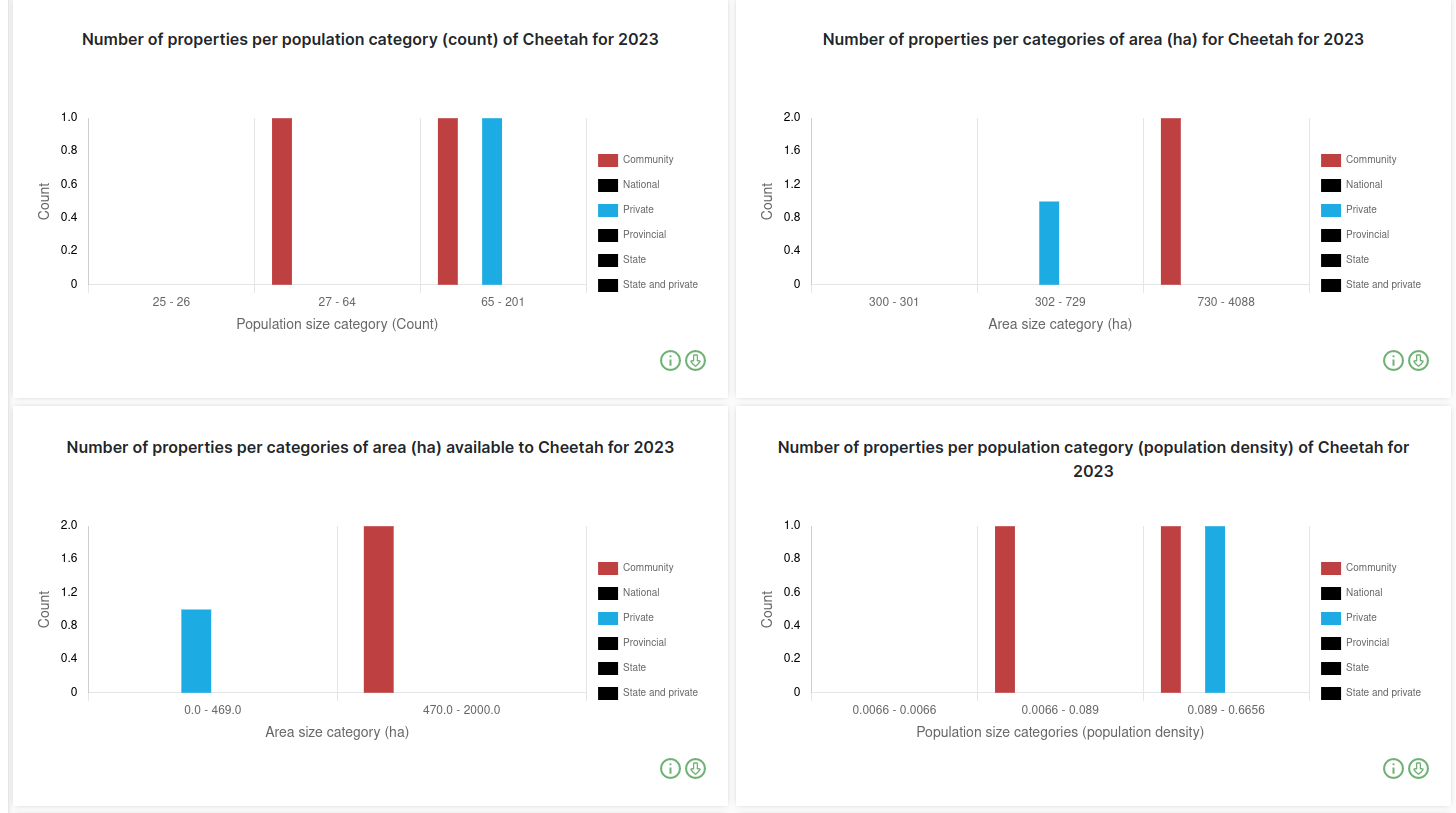
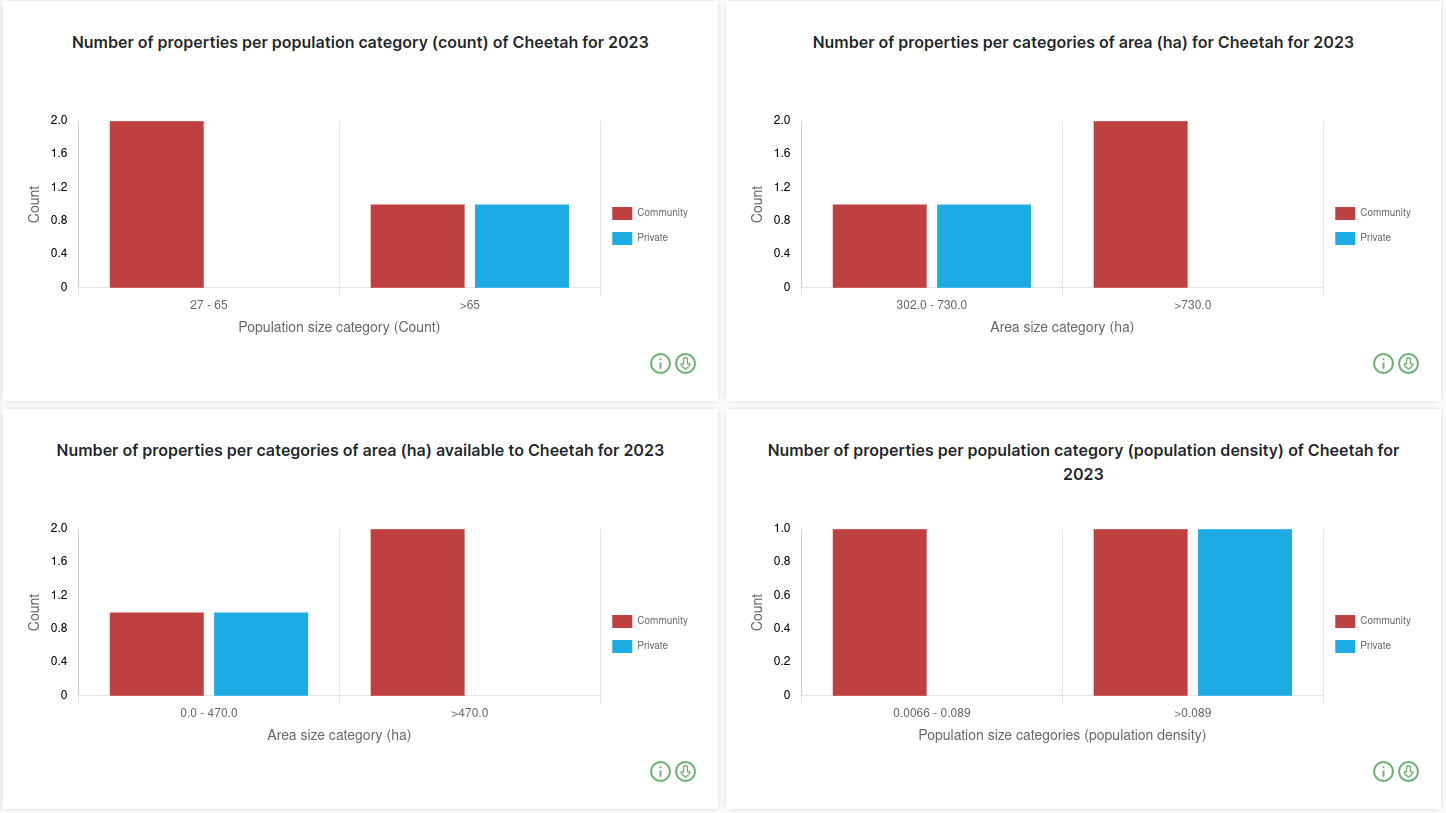
Fix upper bound count

diff --git a/django_project/frontend/src/containers/MainPage/Metrics/PropertyCountPerCategory.tsx b/django_project/frontend/src/containers/MainPage/Metrics/PropertyCountPerCategory.tsx
@@ -89,6 +89,8 @@ const PropertyCountPerCategoryChart = (props: any) => {
     // Map the data for the current age group
     const data = propertyData.map((dataItem: any) => dataItem[propertyType.dataProperty] || 0);
 
+    if (data.every(d => d === 0)) continue;
+
     // Rearrange the data to match the sorted labels
     const sortedData = labels.map((year: any) => {
       const index = propertyData.findIndex((item: { category: any }) => item.category === year);

diff --git a/django_project/frontend/tests/test_metrics.py b/django_project/frontend/tests/test_metrics.py
@@ -9,7 +9,7 @@ from species.factories import (
     TaxonFactory,
     TaxonRankFactory,
 )
-from population_data.models import PopulationEstimateCategory
+from population_data.models import AnnualPopulation, PopulationEstimateCategory
 from population_data.factories import AnnualPopulationF
 from species.models import TaxonRank
 from stakeholder.factories import organisationFactory, organisationUserFactory
@@ -524,7 +524,29 @@ class TotalAreaVSAreaAvailableTestCase(BaseTestCase):
         )
 
 
-class TestPropertyCountPerPopulationSizeCategory(BaseTestCase):
+class TestPropertyCountPerCategoryMixins:
+    def test_empty_result(self) -> None:
+        """
+        Test empty result when there is no data.
+        """
+        year = self.annual_populations[1].year
+        data = {
+            'year': year,
+            'species': 'Species A',
+            'property': self.annual_populations[1].property_id
+        }
+        url = self.url
+        response = self.client.get(url, data, **self.auth_headers)
+        self.assertEquals(
+            response.json(),
+            []
+        )
+
+
+class TestPropertyCountPerPopulationSizeCategory(
+    TestPropertyCountPerCategoryMixins,
+    BaseTestCase
+):
     """
     Test case for the endpoint that retrieves
     property count per population size category.
@@ -536,20 +558,74 @@ class TestPropertyCountPerPopulationSizeCategory(BaseTestCase):
         """
         super().setUp()
         self.url = reverse("property-count-per-population-category-size")
+        self.new_property = PropertyFactory.create()
+        AnnualPopulation.objects.create(
+            total=30,
+            property=self.new_property,
+            year=self.annual_populations[1].year,
+            taxon=self.annual_populations[1].taxon,
+            adult_male=10,
+            adult_female=20
+        )
 
     def test_filter(self) -> None:
         """
         Test filtered total property count per population category.
         """
         year = self.annual_populations[1].year
-        data = {'year': year, 'species': self.annual_populations[1].taxon.scientific_name}
+        data = {
+            'year': year,
+            'species': self.annual_populations[1].taxon.scientific_name
+        }
         url = self.url
         response = self.client.get(url, data, **self.auth_headers)
         self.assertEqual(
             response.json(),
             [
                 {
-                    'category': '98 - 100',
+                    'category': '28 - 30',
+                    self.new_property.property_type.name.lower().replace(' ', '_'): 1,
+                    'common_name_varbatim': self.taxon.common_name_varbatim
+                },
+                {
+                    'category': '>30',
+                    self.property.property_type.name.lower().replace(' ', '_'): 1,
+                    'common_name_varbatim': self.taxon.common_name_varbatim
+                }
+            ]
+        )
+
+    def test_lower_bound_negative(self) -> None:
+        """
+        Test negative lower bound.
+        """
+        new_property = PropertyFactory.create()
+        AnnualPopulation.objects.create(
+            total=1,
+            property=new_property,
+            year=self.annual_populations[1].year,
+            taxon=self.annual_populations[1].taxon,
+            adult_male=1,
+            adult_female=0
+        )
+        year = self.annual_populations[1].year
+        data = {
+            'year': year,
+            'species': self.annual_populations[1].taxon.scientific_name
+        }
+        url = self.url
+        response = self.client.get(url, data, **self.auth_headers)
+        self.assertEqual(
+            response.json(),
+            [
+                {
+                    'category': '1 - 30',
+                    'common_name_varbatim': self.taxon.common_name_varbatim,
+                    new_property.property_type.name.lower().replace(' ', '_'): 1,
+                    self.new_property.property_type.name.lower().replace(' ', '_'): 1
+                },
+                {
+                    'category': '>30',
                     self.property.property_type.name.lower().replace(' ', '_'): 1,
                     'common_name_varbatim': self.taxon.common_name_varbatim
                 }
@@ -557,7 +633,10 @@ class TestPropertyCountPerPopulationSizeCategory(BaseTestCase):
         )
 
 
-class TestPropertyCountPerPopulationDensityCategory(BaseTestCase):
+class TestPropertyCountPerPopulationDensityCategory(
+    TestPropertyCountPerCategoryMixins,
+    BaseTestCase
+):
     """
     Test case for the endpoint that retrieves
     property count per population density category.
@@ -575,7 +654,11 @@ class TestPropertyCountPerPopulationDensityCategory(BaseTestCase):
         Test filtered total property count per population density category.
         """
         year = self.annual_populations[1].year
-        data = {'year': year, 'species': self.annual_populations[1].taxon.scientific_name}
+        data = {
+            'year': year,
+            'species': self.annual_populations[1].taxon.scientific_name,
+            'property': self.annual_populations[1].property_id
+        }
         url = self.url
         response = self.client.get(url, data, **self.auth_headers)
         self.assertEqual(
@@ -590,7 +673,10 @@ class TestPropertyCountPerPopulationDensityCategory(BaseTestCase):
         )
 
 
-class TestPropertyCountPerAreaCategory(BaseTestCase):
+class TestPropertyCountPerAreaCategory(
+    TestPropertyCountPerCategoryMixins,
+    BaseTestCase
+):
     """
     Test case for the endpoint that retrieves
     property count per area category.
@@ -608,14 +694,18 @@ class TestPropertyCountPerAreaCategory(BaseTestCase):
         Test filtered total property count per area category.
         """
         year = self.annual_populations[1].year
-        data = {'year': year, 'species': self.annual_populations[1].taxon.scientific_name}
+        data = {
+            'year': year,
+            'species': self.annual_populations[1].taxon.scientific_name,
+            'property': self.annual_populations[1].property_id
+        }
         url = self.url
         response = self.client.get(url, data, **self.auth_headers)
         self.assertEqual(
             response.json(),
             [
                 {
-                    'category': '198 - 200',
+                    'category': '198.0 - 200.0',
                     self.property.property_type.name.lower().replace(' ', '_'): 1,
                     'common_name_varbatim': self.taxon.common_name_varbatim
                 }
@@ -623,7 +713,10 @@ class TestPropertyCountPerAreaCategory(BaseTestCase):
         )
 
 
-class TestPropertyCountPerAreaAvailableToSpeciesCategory(BaseTestCase):
+class TestPropertyCountPerAreaAvailableToSpeciesCategory(
+    TestPropertyCountPerCategoryMixins,
+    BaseTestCase
+):
     """
     Test case for the endpoint that retrieves
     property count per area available to species category.
@@ -641,7 +734,11 @@ class TestPropertyCountPerAreaAvailableToSpeciesCategory(BaseTestCase):
         Test filtered total property count per area  available to species category.
         """
         year = self.annual_populations[1].year
-        data = {'year': year, 'species': self.annual_populations[1].taxon.scientific_name}
+        data = {
+            'year': year,
+            'species': self.annual_populations[1].taxon.scientific_name,
+            'property': self.annual_populations[1].property_id
+        }
         url = self.url
         response = self.client.get(url, data, **self.auth_headers)
         self.assertEqual(

diff --git a/django_project/frontend/api_views/metrics.py b/django_project/frontend/api_views/metrics.py
@@ -4,7 +4,7 @@ import datetime
 from typing import List
 
 import jenkspy
-from django.db.models import Count, Value
+from django.db.models import Count
 from django.db.models import FloatField
 from django.db.models.functions import Cast
 from django.db.models.query import QuerySet, F
@@ -44,7 +44,7 @@ from frontend.utils.organisation import (
 )
 from frontend.utils.user_roles import get_user_roles
 from population_data.models import AnnualPopulation
-from property.models import Property, PropertyType
+from property.models import Property
 from species.models import Taxon
 
 
@@ -273,17 +273,6 @@ class TotalAreaAvailableToSpeciesAPIView(APIView):
     """
     permission_classes = [IsAuthenticated]
 
-    def get_queryset(self) -> QuerySet[Property]:
-        """
-        Get the filtered queryset of properties for the current organization.
-            """
-        organisation_id = get_current_organisation_id(self.request.user)
-        queryset = Property.objects.filter(organisation_id=organisation_id)
-        filtered_queryset = PropertyFilter(
-            self.request.GET, queryset=queryset
-        ).qs
-        return filtered_queryset.distinct('name')
-
     def get(self, request: HttpRequest, *args, **kwargs) -> Response:
         """
         Retrieve the calculated total area available to species and
@@ -441,6 +430,9 @@ class BasePropertyCountAPIView(APIView):
         if idx == len(categories) - 2:
             upper_bound = categories[idx + 1]
 
+        if idx == len(categories) - 3:
+            upper_bound = categories[idx + 1]
+
         if query_field == 'population_density':
             lower_bound = round(lower_bound, 4)
             upper_bound = round(upper_bound, 4)
@@ -454,13 +446,6 @@ class BasePropertyCountAPIView(APIView):
             data,
             n_classes=data.count() if data.count() < 6 else 6
         )
-        categories = [category for category in categories]
-        property_types = PropertyType.objects.values_list('name', flat=True)
-        base_dict = {
-            property_type.lower().replace(' ', '_'): 0
-            for property_type in property_types
-        }
-        base_dict['common_name_varbatim'] = common_name
 
         results = []
         for idx, category in enumerate(categories):
@@ -471,19 +456,26 @@ class BasePropertyCountAPIView(APIView):
                     category,
                     query_field
                 )
+
                 if lower_bound < 0:
                     continue
 
+                category_annotation = f'{lower_bound} - {upper_bound}'
+                filters = {f'{query_field}__range': (lower_bound, upper_bound)}
+                if idx == len(categories) - 2 and len(categories) > 2:
+                    category_annotation = f'>{lower_bound}'
+                    filters = {f'{query_field}__gt': lower_bound}
+
                 counts = queryset.filter(
-                    **{f'{query_field}__range': (lower_bound, upper_bound)}
+                    **filters
                 ).values(property_type_name_field).annotate(
-                    count=Count(property_type_name_field),
-                    category=Value(f'{lower_bound} - {upper_bound}')
+                    count=Count(property_type_name_field)
                 )
+
                 result = {
-                    'category': f'{lower_bound} - {upper_bound}'
+                    'category': category_annotation,
+                    'common_name_varbatim': common_name
                 }
-                result.update(base_dict)
                 for count in counts:
                     result[
                         count[

diff --git a/django_project/property/models.py b/django_project/property/models.py
@@ -61,7 +61,7 @@ class Property(models.Model):
         blank=True
     )
     owner_email = models.EmailField(null=True, blank=True)
-    property_size_ha = models.IntegerField(null=True, blank=True)
+    property_size_ha = models.FloatField(null=True, blank=True)
     geometry = models.MultiPolygonField(srid=4326, null=True, blank=True)
     province = models.ForeignKey(Province, on_delete=models.DO_NOTHING)
     property_type = models.ForeignKey(

diff --git a/django_project/property/migrations/0011_alter_property_property_size_ha.py b/django_project/property/migrations/0011_alter_property_property_size_ha.py
@@ -1,0 +1,17 @@
+# Generated by Django 4.1.10 on 2023-11-13 02:21
+
+from django.db import migrations, models
+
+
+class Migration(migrations.Migration):
+    dependencies = [
+        ("property", "0010_propertytype_colour"),
+    ]
+
+    operations = [
+        migrations.AlterField(
+            model_name="property",
+            name="property_size_ha",
+            field=models.FloatField(blank=True, null=True),
+        ),
+    ]
